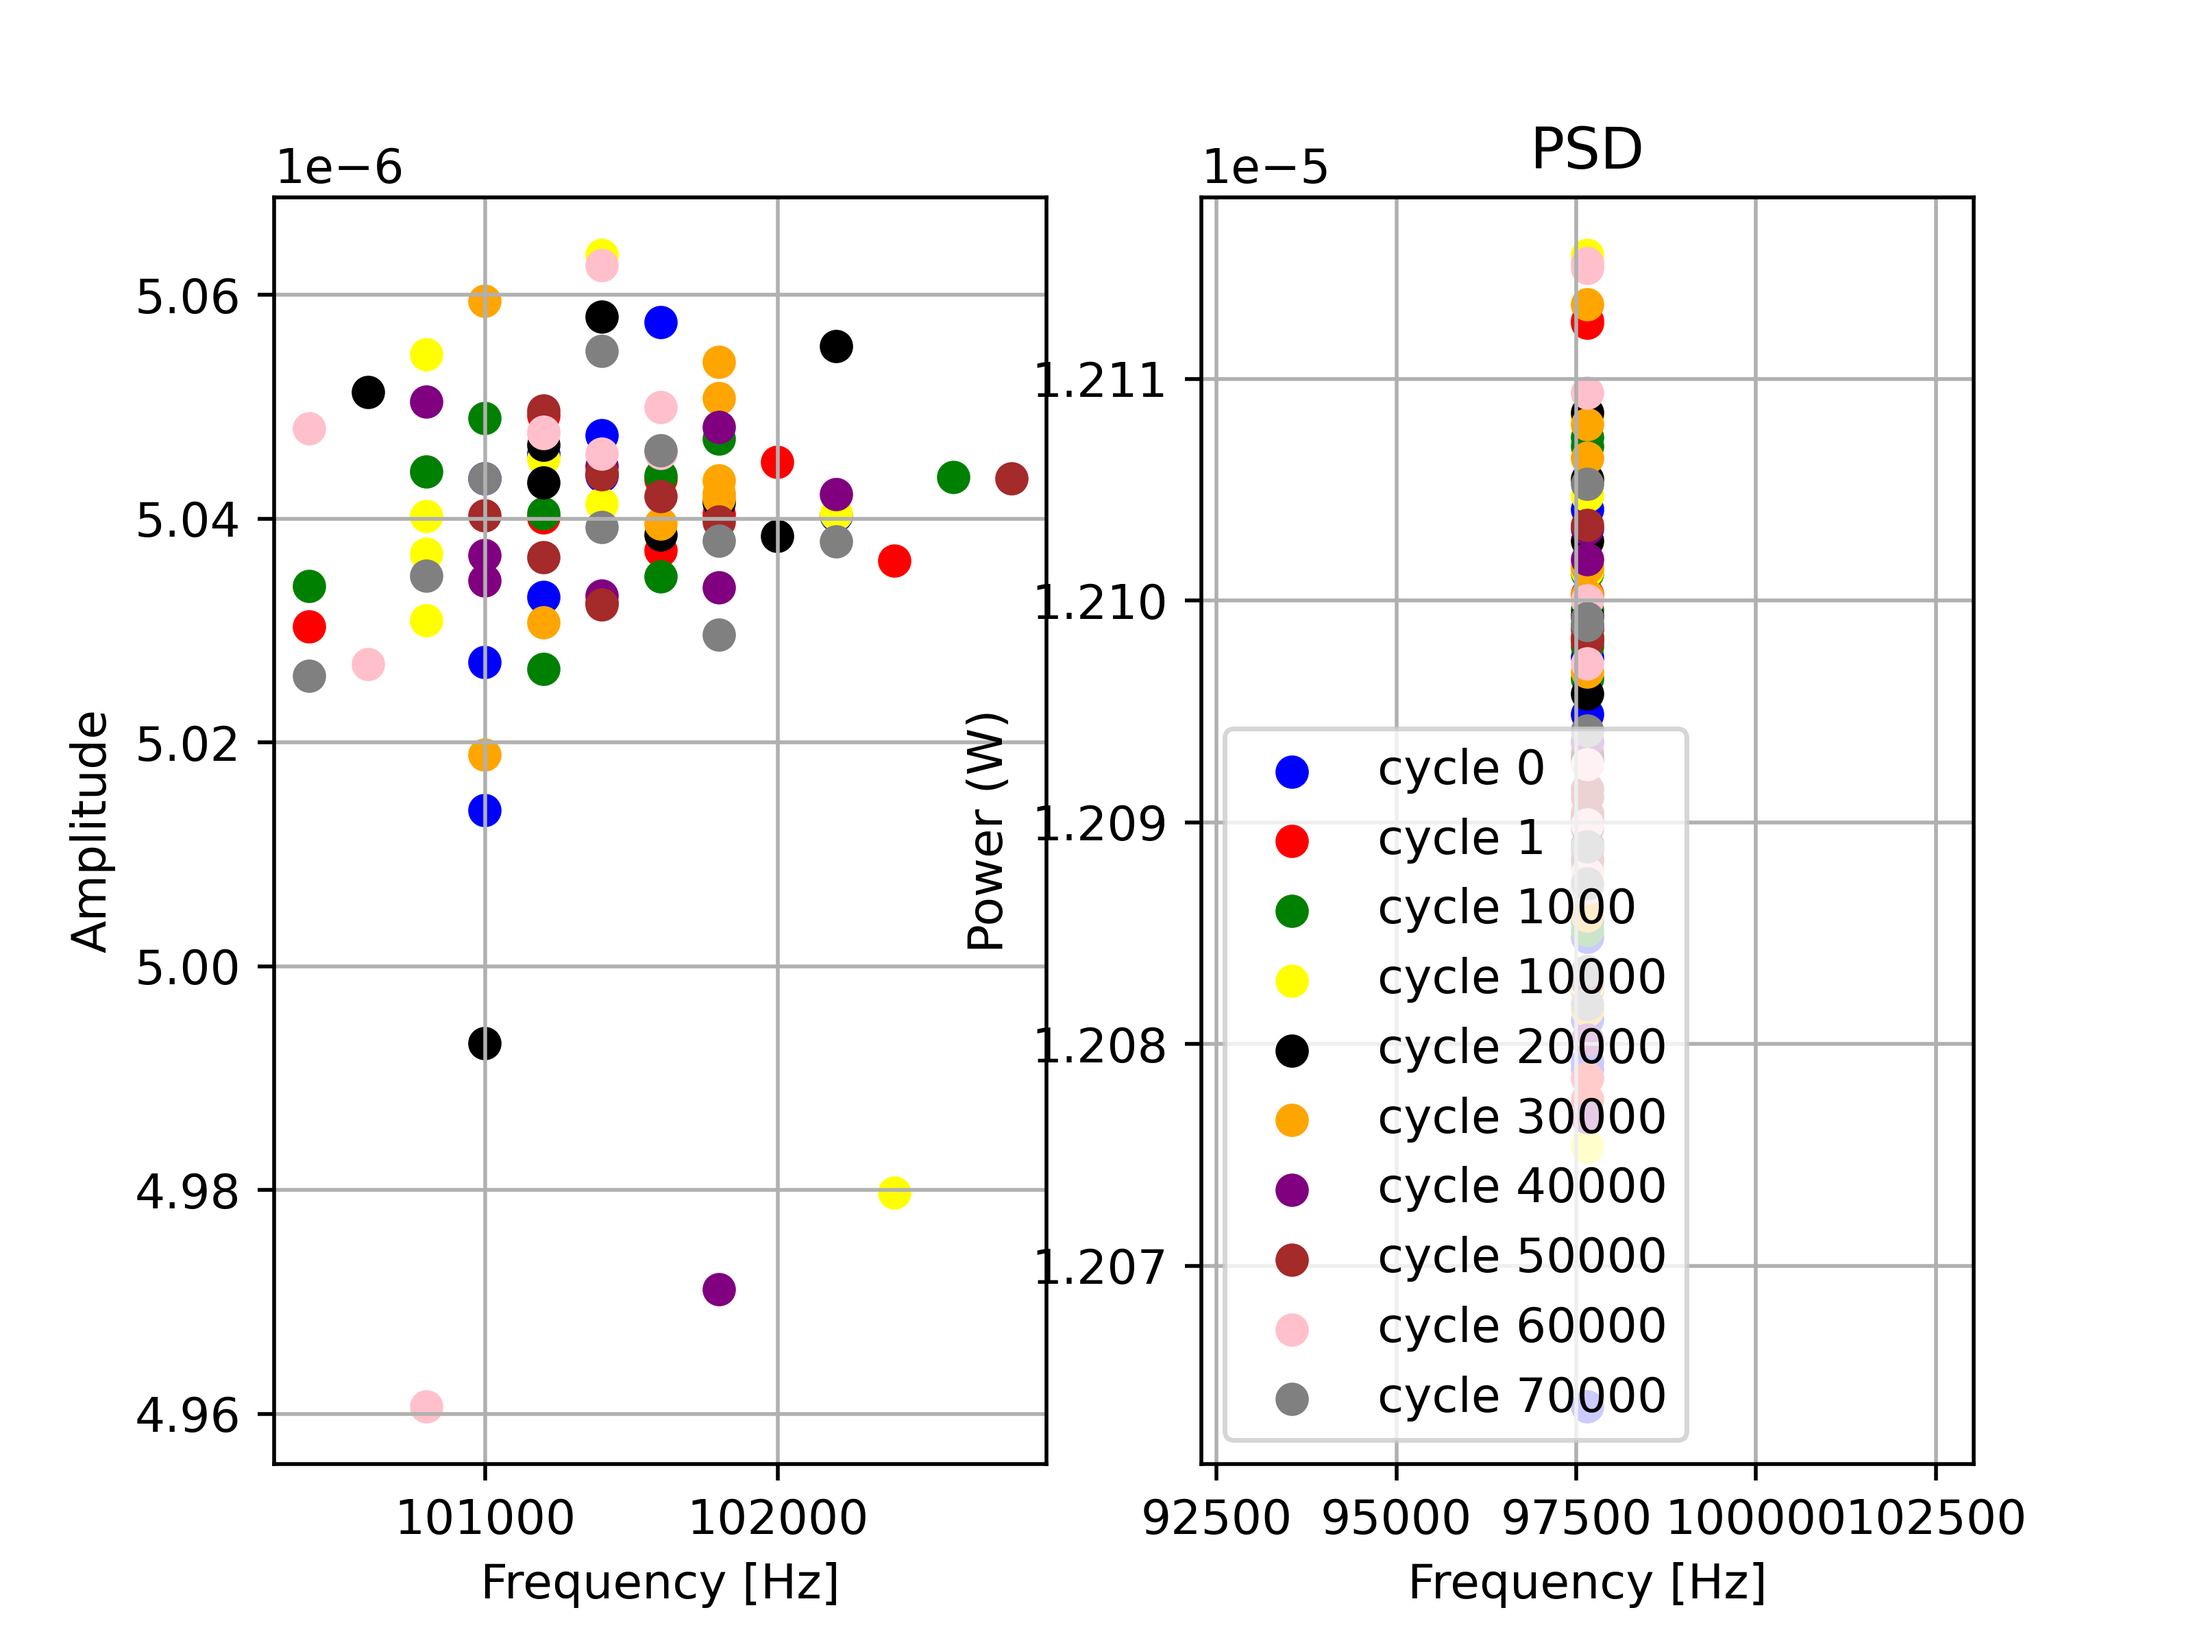
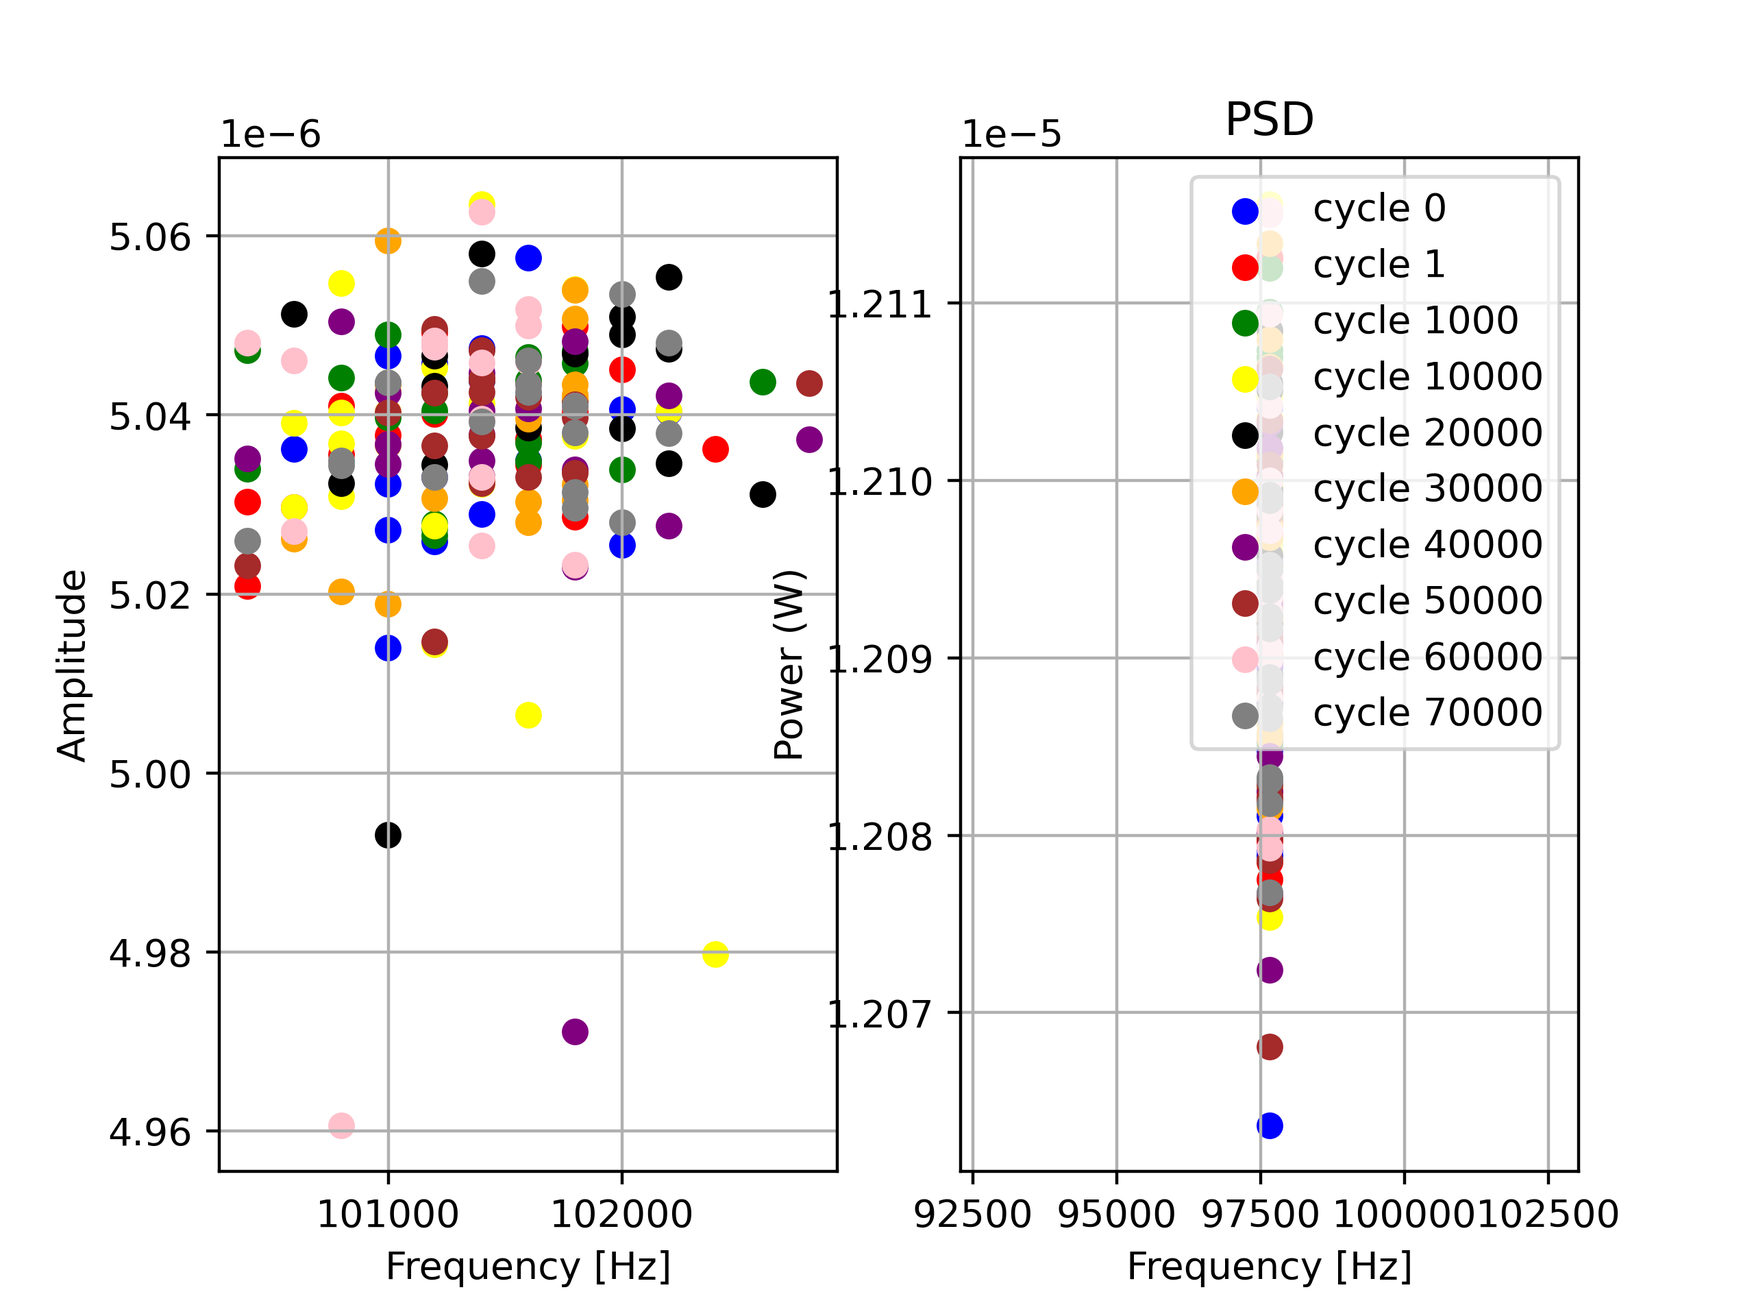
final

diff --git a/app.py b/app.py
@@ -34,60 +34,64 @@ for j in range(0, len(frequency)):
         for z in range(0, len(emitter)):
             for k in range(0 , len(receiver)):
             #create two subplots
-            
+                for a in range(0, 2):
+                    if a==1:
+                        s = Signal(str(cycles[h]), 'excitation', receiver[k], emitter[z], frequency[j])
+                    else:
+                        s = Signal(str(cycles[h]), 'excitation', emitter[z], receiver[k], frequency[j])
                 #plot two subplots
-                s = Signal(str(cycles[h]), 'excitation', emitter[z], receiver[k], frequency[j])
-                t = s.t
-                x = s.x
-                samplingfreq = 1/(t[1]-t[0])
-                x_std = (x - np.mean(x))/np.std(x)
-                x_fft = np.fft.fft(x_std)
-                Mag = np.abs(x_fft)
-                frequencies = np.fft.fftfreq(len(x_std), 1/samplingfreq)
-                #apply gaussian filter
-                sort = np.argsort(frequencies)
-                frequencies = frequencies[sort]
-                Mag = Mag[sort]
-                Mag = sp.ndimage.gaussian_filter1d(Mag, sigma=15)
-                def maxr(freq, Mag):
-                    max = 0
-                    index = 0
-                    for i in range(0, len(Mag)):
-                        if freq[i] > (frequency[j]-20)*10**3 and freq[i] < (frequency[j]+20)*10**3:
-                            if Mag[i] > max:
-                                max = Mag[i]
-                                index = i
-                    return max, index
-
-                #numerical integration of fft using trapezoid rule
-                
-                #compute power spectral density (PSD ) of x_std
-                freq, psd = signal.welch(x_std, samplingfreq, nperseg = 1024, scaling = 'spectrum')
-               
-                #sort frequencies and corresponding fft values
-
-                #integrate fft wrt frequency
-                Mag=Mag/np.trapz(Mag, dx = np.max(frequencies)/len(frequencies))
-                #function evaluating polynomial with coefficients polycfft 
-
                     
+                    t = s.t
+                    x = s.x
+                    samplingfreq = 1/(t[1]-t[0])
+                    x_std = (x - np.mean(x))/np.std(x)
+                    x_fft = np.fft.fft(x_std)
+                    Mag = np.abs(x_fft)
+                    frequencies = np.fft.fftfreq(len(x_std), 1/samplingfreq)
+                    #apply gaussian filter
+                    sort = np.argsort(frequencies)
+                    frequencies = frequencies[sort]
+                    Mag = Mag[sort]
+                    Mag = sp.ndimage.gaussian_filter1d(Mag, sigma=15)
+                    def maxr(freq, Mag):
+                        max = 0
+                        index = 0
+                        for i in range(0, len(Mag)):
+                            if freq[i] > (frequency[j]-20)*10**3 and freq[i] < (frequency[j]+20)*10**3:
+                                if Mag[i] > max:
+                                    max = Mag[i]
+                                    index = i
+                        return max, index
 
-                #find index of the maximum value
-                #plot the point on the graph
+                    #numerical integration of fft using trapezoid rule
+                    
+                    #compute power spectral density (PSD ) of x_std
+                    freq, psd = signal.welch(x_std, samplingfreq, nperseg = 1024, scaling = 'spectrum')
                 
-            
+                    #sort frequencies and corresponding fft values
+
+                    #integrate fft wrt frequency
+                    Mag=Mag/np.trapz(Mag, dx = np.max(frequencies)/len(frequencies))
+                    #function evaluating polynomial with coefficients polycfft 
+
+                        
+
+                    #find index of the maximum value
+                    #plot the point on the graph
+                    
                 
-                
-                sort = np.argsort(freq)
-                freq = freq[sort]
-                psd = psd[sort]
-                psd = psd/np.trapz(psd, dx = np.max(freq)/len(freq))
-                max, index = maxr(frequencies, Mag)
-                Maxmag.append(max)
-                Maxfrequency.append(frequencies[index])
-                max, index = maxr(freq, psd)
-                Maxpsd.append(max)
-                Maxfreq.append(freq[index])
+                    
+                    
+                    sort = np.argsort(freq)
+                    freq = freq[sort]
+                    psd = psd[sort]
+                    psd = psd/np.trapz(psd, dx = np.max(freq)/len(freq))
+                    max, index = maxr(frequencies, Mag)
+                    Maxmag.append(max)
+                    Maxfrequency.append(frequencies[index])
+                    max, index = maxr(freq, psd)
+                    Maxpsd.append(max)
+                    Maxfreq.append(freq[index])
     #sort freq and corresponding PSD values
         ax1.scatter(Maxfrequency , Maxmag,   label = 'cycle '+str(cycles[h]), color = colors[h])
         ax2.scatter(Maxfreq, Maxpsd, label = 'cycle '+str(cycles[h]), color = colors[h])
@@ -100,13 +104,14 @@ for j in range(0, len(frequency)):
     ax2.set_xlabel('Frequency [Hz]')
     ax2.set_ylabel('Power (W)')
     #ax2.set_xlim((frequency[j]-20)*10**3, (frequency[j]+20)*10**3)
-    ax2.legend()
+    #position legend to the right of the subplots
+    ax2.legend(loc = 'upper right')
     ax2.set_title('PSD')
     ax1.grid()  
     ax1.set_xlabel('Frequency [Hz]')
     ax1.set_ylabel('Amplitude')
     file_path = os.path.join(dir_path, 'FFT+PSD'+'emitter'+str(emitter[z])+'receiver'+str(receiver[k])+ 'frequency'+str(frequency[j])+'KHz'+'.png')
-    plt.savefig(file_path, dpi = 500)
+    plt.savefig(file_path, dpi = 400)
     plt.clf()
     
            
